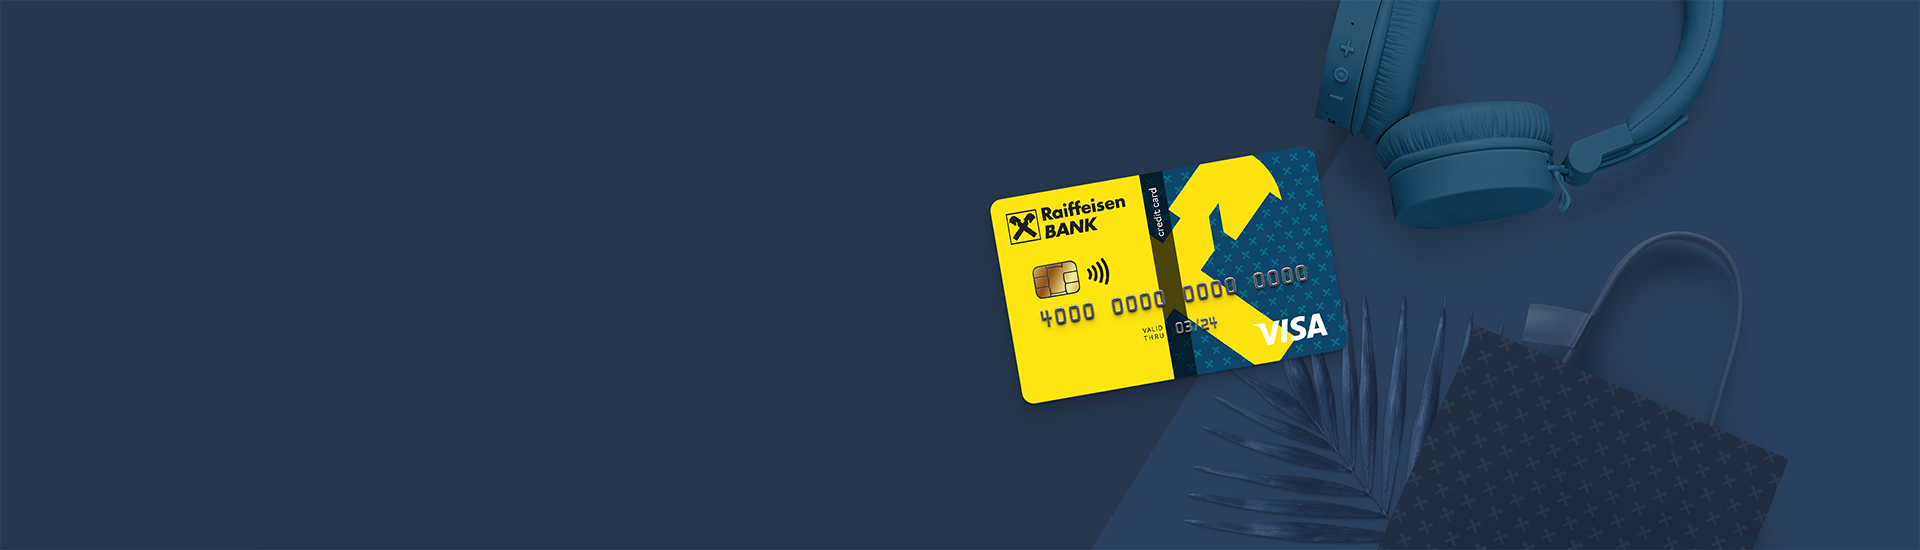
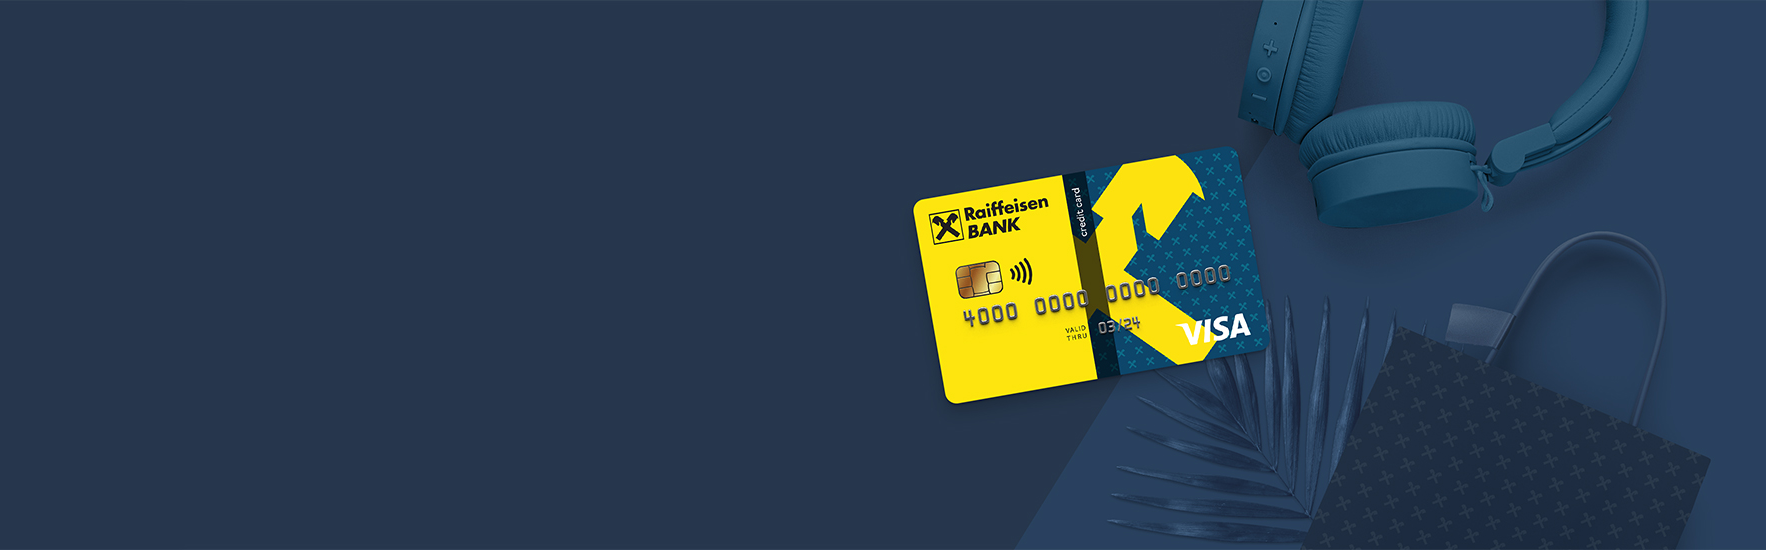
Добавляет картинки

diff --git a/src/scss/blocks/promo.scss b/src/scss/blocks/promo.scss
@@ -3,6 +3,27 @@
 
     color: $color-white;
     background-color: $color-secondary;
+
+    background-repeat: no-repeat;
+    background-position: 50% 50%;
+    background-size: contain;
+    background-image: url('../img/bg/promo-mobile.png');
+
+    @media (min-resolution: 2dppx) {
+        background-image: url('../img/bg/promo-mobile@2x.png');
+    }
+
+    @include breakpoint($breakpoints-large) {
+        background-image:
+            url('../img/bg/promo-desktop.png'),
+            linear-gradient(to right, #26364d 50%, #29405f 50%);
+
+        @media (min-resolution: 2dppx) {
+            background-image:
+                url('../img/bg/promo-desktop@2x.png'),
+                linear-gradient(to right, #26364d 50%, #29405f 50%);
+        }
+    }
 }
 
 .promo__container {
